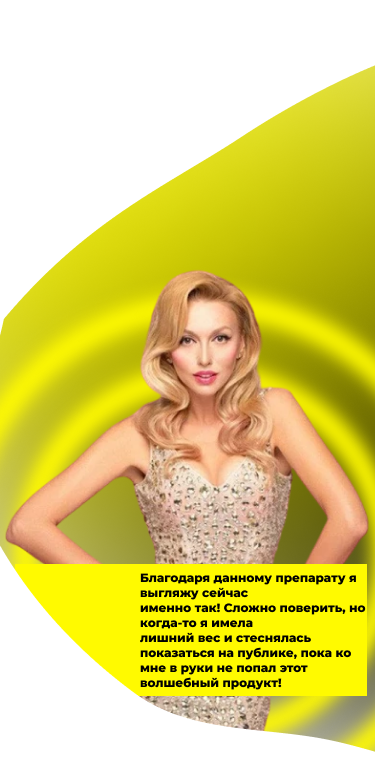
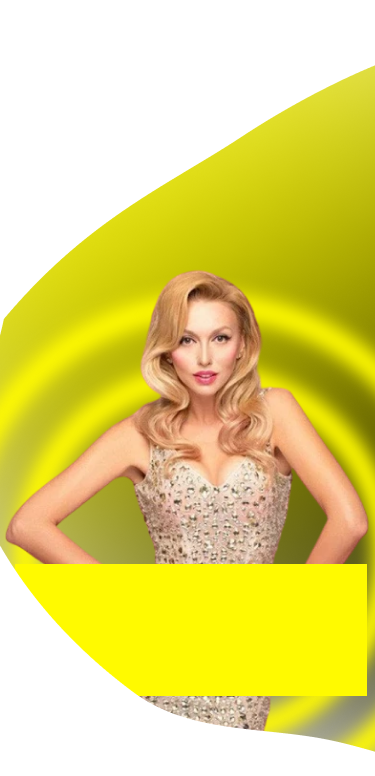
add

Changed region(s): [[0.352, 0.7423, 0.968, 0.8969]]

diff --git a/css/style.css b/css/style.css
@@ -396,17 +396,40 @@ header .botton:hover{
     }
 }
 @media (max-width: 767px) {
+    .screen_one .img_right{
+        position: relative;
+    }
     .screen_one .img_right img{
         position: absolute;
         right: 0;
-        top: 45px;
+       bottom: 90px;
         z-index: 1;
         max-width: 570px;
         width: 100%;
     }
+    .screen_one .img_right p{
+        position: absolute;
+        right: 20px;
+        bottom: 180px;
+        z-index: 5;
+        font-size: 12px;
+        font-weight: bold;
+        color: black;
+        max-width: 221px;
+    }
 }
+@media (max-width: 375px){
+    .screen_one .img_right img{
+        right: 0;
+        bottom: 90px;
+    }
 
-.screen_one .right .inst_img img{
+    .screen_one .img_right p{
+        right: 10px;
+        bottom: 166px;
+    }
+}
+    .screen_one .right .inst_img img{
     position: absolute;
     top: 106px;
     right: -78px;

diff --git a/index.html b/index.html
@@ -123,6 +123,9 @@
     </div>
     <div class="img_right d-lg-none d-block">
         <img src="img/anite_baba.png"/>
+        <p>Благодаря данному препарату я выгляжу сейчас
+            именно так! Сложно поверить, но когда-то я имела
+            лишний вес и стеснялась показаться на публике, пока ко мне в руки не попал этот волшебный продукт!</p>
     </div>
 </section>
 <section class="screen_two">
